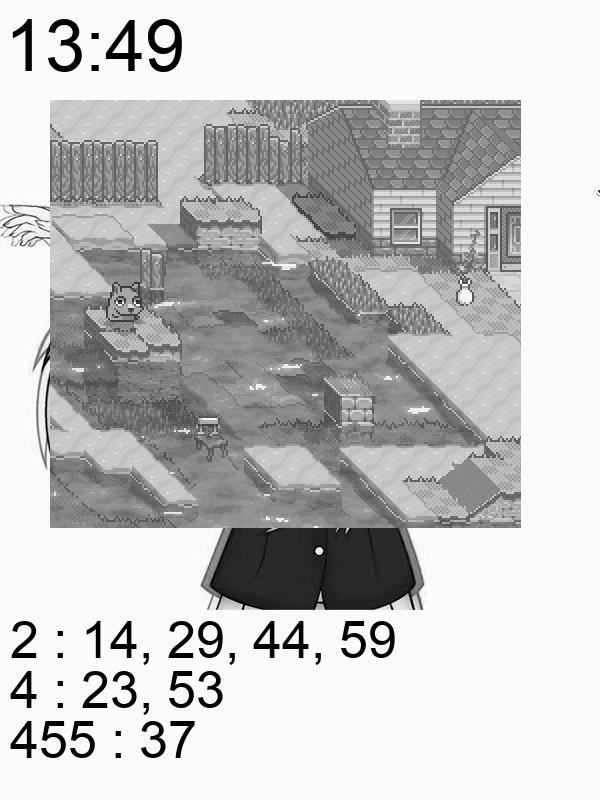
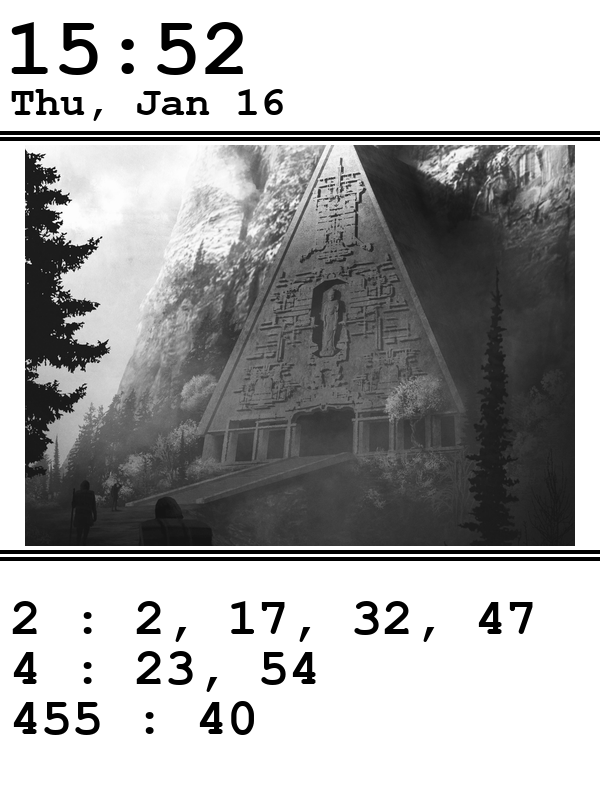
Added reddit integration and new base images

diff --git a/controllers/reddit.py b/controllers/reddit.py
@@ -7,7 +7,7 @@ class RedditImageController:
     def get_image(self):
         reddit = praw.Reddit('Kindle', user_agent='kindle user')
 
-        subreddit = reddit.subreddit('pixelart')  
+        subreddit = reddit.subreddit('illustration')  
 
         top_posts = subreddit.top('day')     
         for submission in top_posts:
@@ -27,18 +27,44 @@ class RedditImageController:
                 fo.write(chunk)
         
         if filename.endswith('.gif'):
-            self.gif_to_png(filename)
+            filename = self.gif_to_png(filename)
         
-        if filename.endswith('.jpg'):
-            self.jpg_to_png(filename)
+        elif filename.endswith('.jpg'):
+            filename = self.jpg_to_png(filename)
+
+        self.crop_image_and_save(filename)
+
+    def crop_image_and_save(self, filename):
+        basewidth = 550
+        im = Image.open(filename)
+        wpercent = (basewidth/float(im.size[0]))
+        hsize = int((float(im.size[1])*float(wpercent)))
+        im = im.resize((basewidth,hsize), Image.ANTIALIAS)
+
+        w, h = im.size
+        h_const = 400
+        w_const = 575
+        h_offset = 0
+        w_offset = 0
+
+        if h >= h_const:
+            h_offset = (h - h_const)//2
+        
+        if w >= w_const:
+            w_offset = (w - w_const)//2
+
+        im = im.crop((w_offset, h_offset, w-w_offset, h-h_offset))
+        im.save('images/pixel_art.png')
 
     def gif_to_png(self, filename):
         im = Image.open(filename)
         im.seek(0)
         im.save('images/pixel_art.png')
         os.remove(filename)
+        return 'images/pixel_art.png'
 
     def jpg_to_png(self, filename):
         im = Image.open(filename)
         im.save('images/pixel_art.png')
         os.remove(filename)
+        return 'images/pixel_art.png'

diff --git a/display.py b/display.py
@@ -7,6 +7,8 @@ from PIL import Image, ImageFont, ImageDraw
 from controllers.uta_bus import UtaBusController, UtaBusStop
 from controllers.reddit import RedditImageController
 
+# python3 -m pyftpdlib -w
+
 class Display:
     def __init__(self, verbose, bus_handler, image_handler):
         self.verbose = verbose
@@ -17,6 +19,11 @@ class Display:
         now = dt.now()
         current_time = now.strftime("%H:%M")
         draw.text((5, 5), current_time, (0),font=font)
+        
+        date_str = now.strftime("%a, %b %d")
+
+        date_font = ImageFont.truetype("Courier_New_Bold.ttf", 42)
+        draw.text((10, 80), date_str, (0), font=date_font)
 
         if self.verbose:
             print("Time added: {}".format(current_time))
@@ -32,18 +39,22 @@ class Display:
                 else:
                     draw_txt += str(stops[i].arrival_times[j])
 
-            draw.text((10, 610+(50*i)), draw_txt, (0),font=font)
+            draw.text((10, 590+(50*i)), draw_txt, (0),font=font)
 
     def add_pixel_art(self, img):
         self.image_handler.get_image()
         pixel = Image.open('images/pixel_art.png')
-        img.paste(pixel, (50, 100))
+        w, h = pixel.size
+        w_offset = (600 - w) // 2
+        img.paste(pixel, (w_offset, 145))
+
+
 
     def update_image(self):
-        img = Image.open("images/base_image.png")
+        img = Image.open("images/kindle_display_base.png")
         draw = ImageDraw.Draw(img)
-        time_font = ImageFont.truetype("arial.ttf", 72)
-        bus_font = ImageFont.truetype("arial.ttf", 52)
+        time_font = ImageFont.truetype("Courier_New_Bold.ttf", 82)
+        bus_font = ImageFont.truetype("Courier_New_Bold.ttf", 52)
         
         # Add to image here
         if self.verbose:

diff --git a/controllers/onebusaway.py b/controllers/onebusaway.py
@@ -14,7 +14,11 @@ class BusHandler:
         self.bus_dict = {}
 
     def http_call(self):
-        url = 'http://api.pugetsound.onebusaway.org/api/where/arrivals-and-departures-for-stop/1_18270.json?key=TEST'
+
+        with open('credentials.txt', 'r') as f:
+            apikey = f.readline().strip()
+
+        url = 'http://api.pugetsound.onebusaway.org/api/where/arrivals-and-departures-for-stop/1_18270.json?key=' + apikey
         response = requests.get(url)
         data = response.json()
         num_of_buses = len(data['data']['entry']['arrivalsAndDepartures'])
